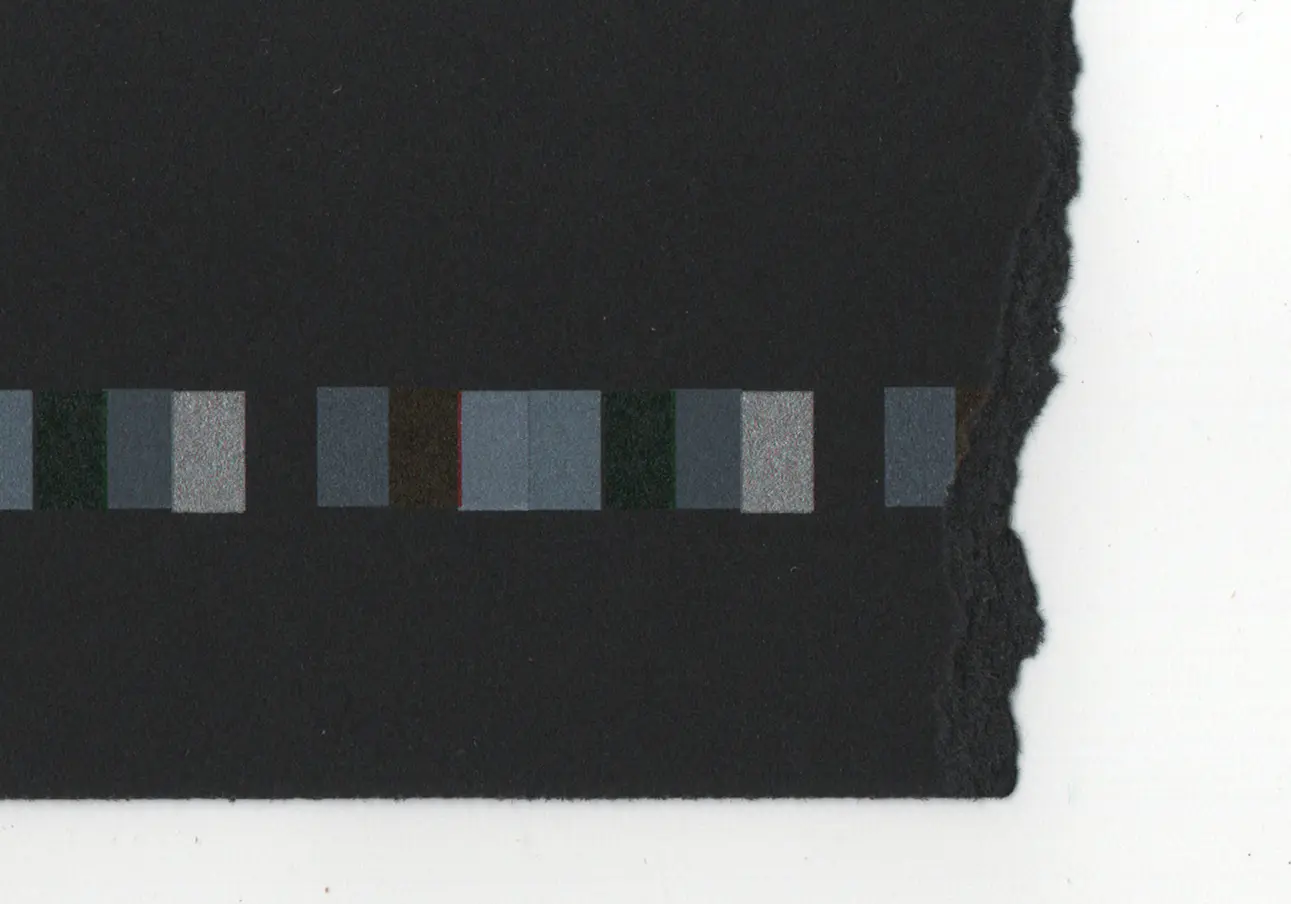
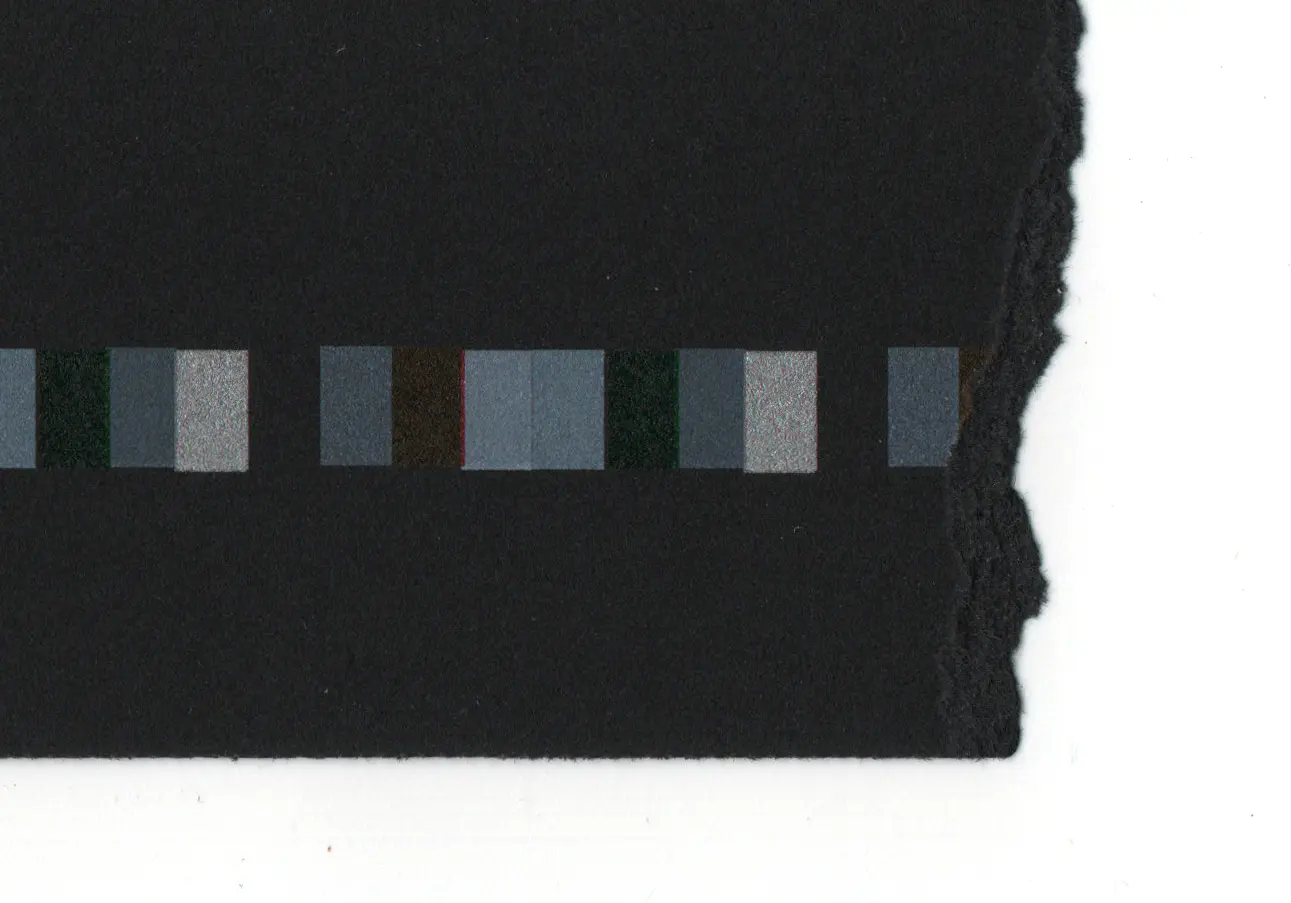
05-05-2026 ajout archives

diff --git a/archives.html b/archives.html
@@ -57,10 +57,13 @@
       </div>
       <div class="container">
         <figure class="picture">
+          <img src="pictures/archives/minolta-x300-4.webp" loading="lazy">
+        </figure>
+        <figure class="picture">
           <img src="pictures/archives/52.webp" loading="lazy">
         </figure>
         <figure class="picture">
-          <img src="pictures/archives/minolta-x300-4.webp" loading="lazy">
+          <img src="pictures/archives/fenetre-arbre.webp" loading="lazy">
         </figure>
         <figure class="picture">
           <img src="pictures/archives/linge.webp" loading="lazy">
